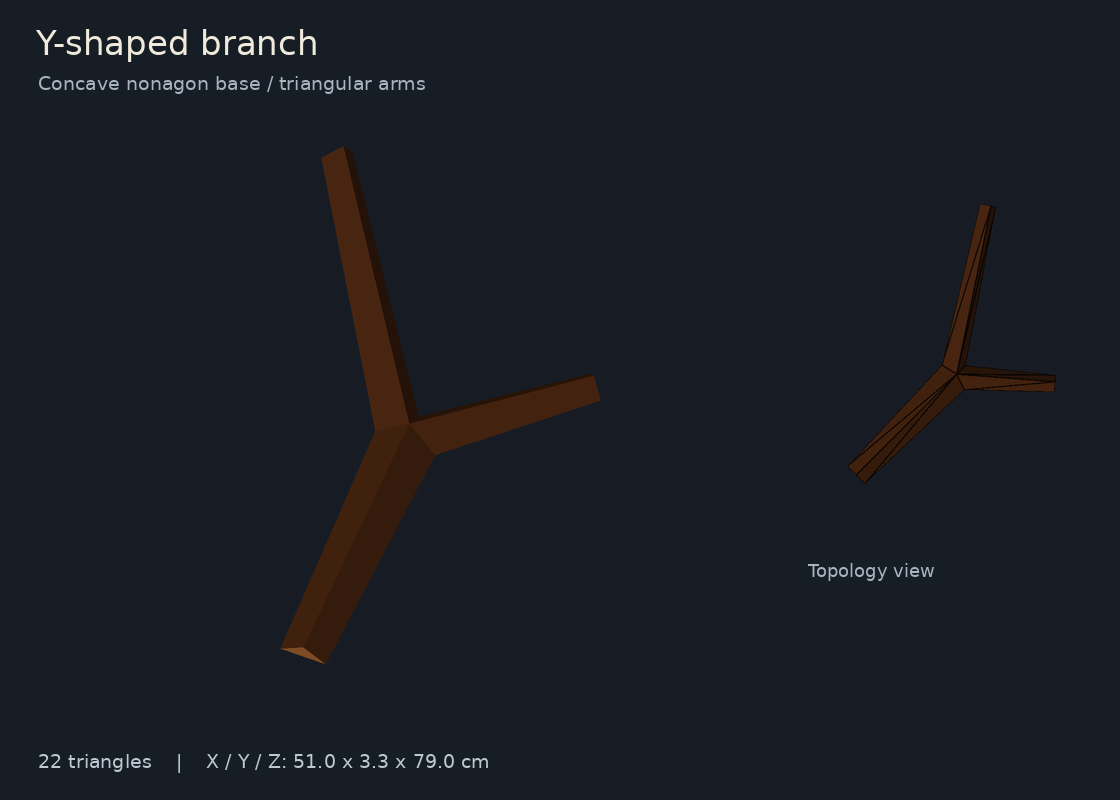
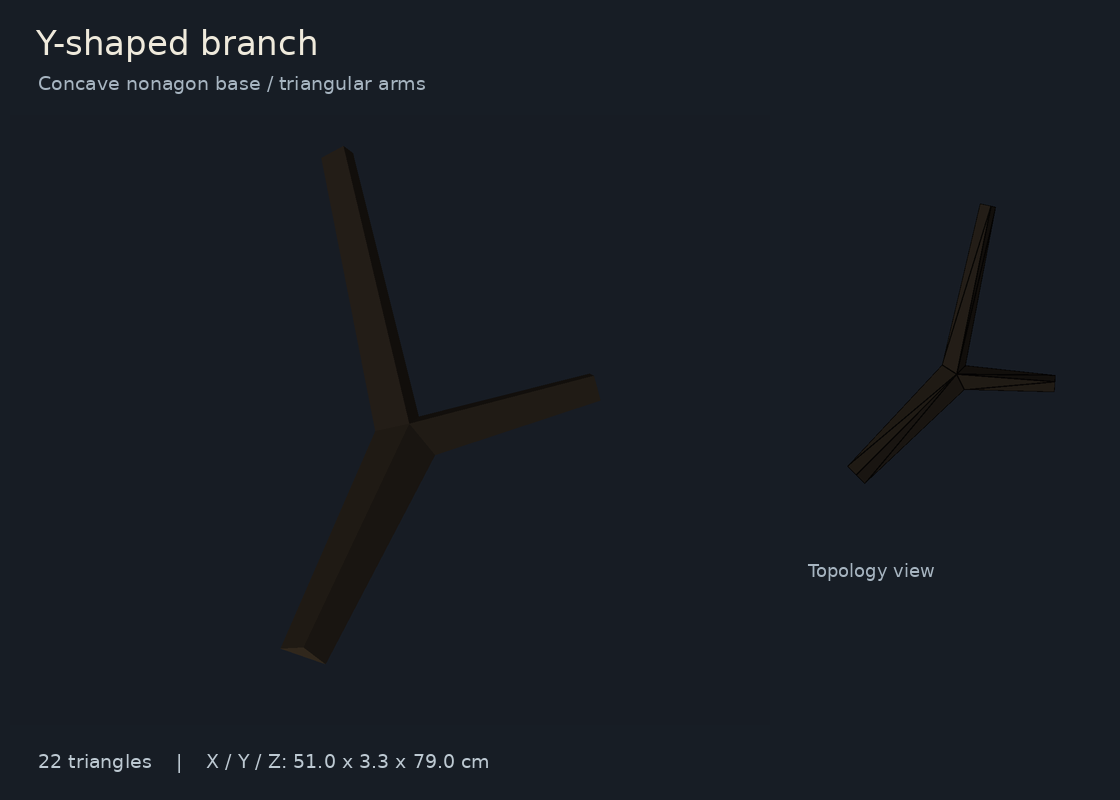
Match doodad colors to dry bark and forest ground

Changed region(s): [[0.25, 0.1875, 0.5312, 0.8438], [0.75, 0.2812, 0.9375, 0.5938], [0.875, 0.25, 0.9062, 0.2812]]

diff --git a/src/doodad_geometry.py b/src/doodad_geometry.py
@@ -92,8 +92,10 @@ def branch_model():
             "cross_section_sides": 3,
         },
         "parts": [
-            _part("Branch_Bark", positions, roof + bottom, (0.31, 0.16, 0.070)),
-            _part("Branch_Cut_Ends", positions, cuts, (0.57, 0.35, 0.16)),
+            # Fixed linear material colors, picked by eye from the dry-tree
+            # images: weathered gray-brown bark and subdued gray-tan cuts.
+            _part("Branch_Bark", positions, roof + bottom, (0.15, 0.125, 0.10)),
+            _part("Branch_Cut_Ends", positions, cuts, (0.22, 0.18, 0.13)),
         ],
     }
 
@@ -133,7 +135,9 @@ def stone_model():
             "description": "Irregular pentagonal frustum with a smaller offset top",
             "cross_section_sides": 5,
         },
-        "parts": [_part("Stone", positions, triangles, (0.46, 0.47, 0.43))],
+        # Hand-picked dark olive-gray, close to the old-forest floor's apparent
+        # brightness. This stays a fixed color; no terrain/image sampling.
+        "parts": [_part("Stone", positions, triangles, (0.045, 0.065, 0.035))],
     }
 
 

diff --git a/assets/doodads/README.md b/assets/doodads/README.md
@@ -17,6 +17,11 @@ Materials use flat normals, single-sided opaque surfaces and no textures. The
 bottle uses amber coloring and a dark, closed top face suggesting its mouth;
 there is no hollow interior or extra cap geometry.
 
+Branch colors are hand-picked from the [dry-tree images](../dry_tree/README.md):
+weathered gray-brown bark with muted gray-tan cut ends. Stones use a dark
+olive-gray chosen by eye to sit near the old-forest floor's apparent brightness.
+These are fixed material colors; the builder does not sample images or terrain.
+
 The reproducible source is [doodad_geometry.py](../../src/doodad_geometry.py);
 [doodad_assets.py](../../src/doodad_assets.py) handles validation and export.
 Generated GLBs follow the repository's existing binary ignore rule. Build them
